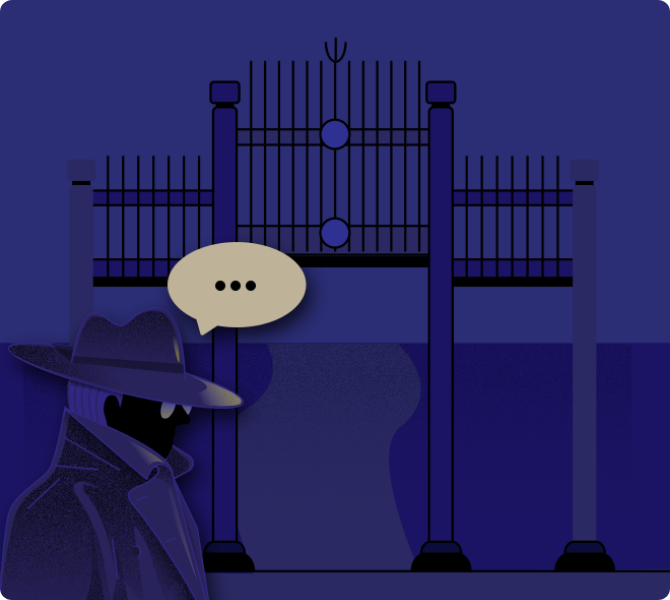
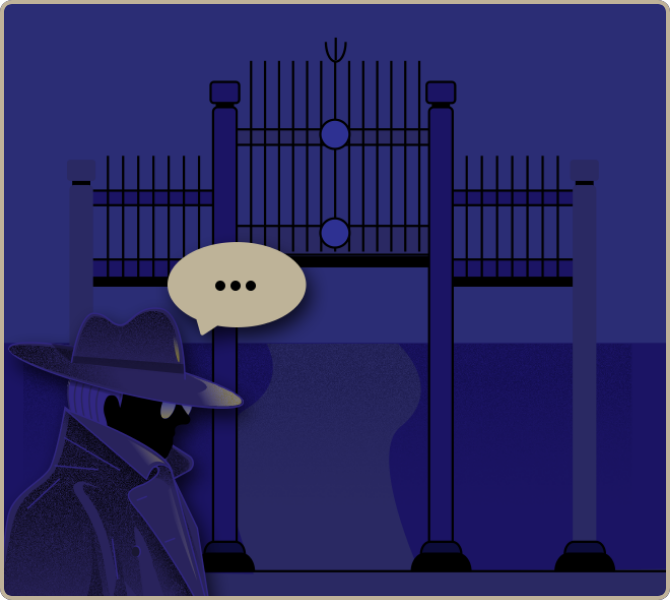
2021.03.22 작업

Changed region(s): [[0.0, 0.0, 1.0, 1.0]]

diff --git a/html/sub_09_05.html b/html/sub_09_05.html
@@ -31,13 +31,16 @@
 
     <div id="container">
         <div id="contents">
-            <div class="img-box">
-                <img src="../resource/images/sub/sec_09_05.png" alt="">
+            <div class="img-box02">
+                <span class="img"><img src="../resource/images/sub/sec_09_05_bg.png" alt=""></span>
+                <span class="left-man"><img src="../resource/images/sub/sec_09_05_left.png" alt=""></span>
+                <span class="right-man"><img src="../resource/images/sub/sec_09_05_right.png" alt=""></span>
+                <span class="crown"><img src="../resource/images/sub/sec_09_05_crown.png" alt=""></span>
+                <span class="hand"><img src="../resource/images/sub/sec_09_05_hand.png" alt=""></span>
             </div>
             <div class="txt-box">
-                야마구찌 병원에서 골동품상을 발견. <br>
-                야마구찌 병원의 의사와 <br>
-                은밀히 유물을 거래하는 현장을 목격.
+                야마구찌 병원의 의사와 골동품 상인의<br>
+                거래를 방해하시게.
             </div>
         </div>
     </div>

diff --git a/resource/css/contents.css b/resource/css/contents.css
@@ -316,6 +316,59 @@ body {
 .img-list p + p {
     margin-top:20px;
 }
+.img-list + .time-box {
+    margin-top:30px;
+}
+
+.img-box02 {
+    position:relative;
+    overflow:hidden;
+    border:2px solid #bfb299;
+    border-radius:5px;
+}
+.img-box02 .img {
+    display:inline-block;
+    vertical-align:middle;
+}
+.img-box02 .left-man {
+    position:absolute;
+    left:-83px;
+    bottom:-20px;
+    width:203px;
+    height:234px;
+    z-index:1;
+}
+.img-box02 .right-man {
+    position:absolute;
+    right:-47px;
+    bottom:-24px;
+    width:254px;
+    height:248px;
+    z-index:1;
+}
+.img-box02 .crown {
+    position:absolute;
+    left:50%;
+    bottom:33px;
+    width:98px;
+    height:104px;
+    z-index:1;
+    transform:translate(-50%, 0);
+}
+.img-box02 .hand {
+    position:absolute;
+    left:50%;
+    bottom:0;
+    margin-left:36px;
+    width:95px;
+    height:156px;
+    z-index:2;
+    transform:translate(-50%, 0);
+}
+.img-box02 + .txt-box {
+    margin-top:27px;
+}
+
 .txt-box .form-box .inner {
     align-items:center;
     justify-content:flex-start;

diff --git a/html/sub_05_01.html b/html/sub_05_01.html
@@ -34,15 +34,16 @@
                 <img src="../resource/images/sub/sec_05_01.png" alt="">
             </div>
             <div class="txt-box">
-                첫번째 유물을 잘 찾아 지켜주었구만. <br>
-                이곳은 나에게 맡기고 <br>
-                다음 유물을 찾으러 가시게. <br><br>
+                첫번째 유물을 잘 찾아 지켜주었구만.<br>
+                이곳은 나에게 맡기고<br>
+                다음 유물을 찾으러 가시게.<br><br>
 
-                다음 장소를 찾으면 두번째, <br>
-                세번째 유물을 찾을 수 있을 걸세.<br><br>
+                그 곳에 가면<br>
+                두번째, 세번째 유물을<br>
+                찾을 수 있을 걸세.<br><br>
 
                 나는 다른 길로 이동하겠네.<br>
-                나를 의심하지는 말게나. <br>
+                나를 의심하지는 말게나.<br>
                 후후. 금새 뒤따라 가겠네.
             </div>
         </div>

diff --git a/html/sub_06_07.html b/html/sub_06_07.html
@@ -34,10 +34,11 @@
                 <img src="../resource/images/sub/sec_06_07.png" alt="">
             </div>
             <div class="txt-box">
-                이곳은 지금 주인이 없고, <br>
+                이곳은 지금 주인이 없고,<br>
                 빈 공간만 남아있다네.<br><br>
 
-                그 주인은 무거운 몸을 이끌고 피치 못할 사정으로 자리를 여러 번 옮기게 되었지.<br>
+                그 주인은 무거운 몸을 이끌고 피치 못할<br>
+                사정으로 자리를 여러 번 옮기게 되었지.<br>
                 한때는 파루 역할을 하기도 했다네.<br><br>
 
                 어서 빨리 두번째 유물을 찾아내게나.

diff --git a/html/sub_10_05.html b/html/sub_10_05.html
@@ -51,6 +51,10 @@
             <div class="img-list">
                 <p><img src="../resource/images/sub/sec_10_05_01.jpg" alt="서경사는 일본 불교 정토진종을 경주에 포교하기 위해 지은 불교 건축물이다. ♠◆△○년 무렵에 일본에서 건축자재를 가져와 일본 전통 불교의 건축양식으로 세운 것이다."></p>
             </div>
+            <div class="time-box">
+                <i class="ico-clock11"></i>
+                <p>다음 시간을 참고하시게나.</p>
+            </div>
         </div>
     </div>
     <!-- //Container -->

diff --git a/html/sub_12_01.html b/html/sub_12_01.html
@@ -42,7 +42,7 @@
                 너무 깜짝 놀라지는 마시게 후후.
             </div>
             <div class="obtain-box">
-                <img src="../resource/images/sub/sec_04_06.png" alt="게, 09, 품, 09, 사람 인, 05, 에, 09, 상, 07, 골, 11, 동, 07">
+                <img src="../resource/images/sub/sec_12_01_01.png" alt="게, 09, 품, 09, 사람 인, 05, 에, 09, 상, 07, 골, 11, 동, 07">
             </div>
             <div class="time-box">
                 <i class="ico-clock12"></i>

diff --git a/html/sub_07_06.html b/html/sub_07_06.html
@@ -41,7 +41,8 @@
                 이 나무라네.</em><br><br>
 
                 많은 세월이 흘러 오래된 나무지만, <br>
-                경주에 봄이 왔다는 소식을 가장 빨리 알려주고 있다네.<br><br>
+                경주에 봄이 왔다는 소식을<br>
+                가장 빨리 알려주고 있다네.<br><br>
 
                 여긴 나에게 맡기고 어서 이동하시게. <br>
                 역시 의심하지 말고 후후. 먼저 가시게나.<br><br>

diff --git a/html/sub_04_02.html b/html/sub_04_02.html
@@ -47,7 +47,8 @@
                 발견 할 것이네. <br><br>
 
                 해당하는 시간이 의미하는 단어를 찾으면 <br>
-                다음 장소로 가는 비밀을 풀수 있을 것이네. 후후
+                다음 장소로 가는<br>
+                비밀을 풀수 있을 것이네. 후후
             </div>
 
             <div class="time-box">
